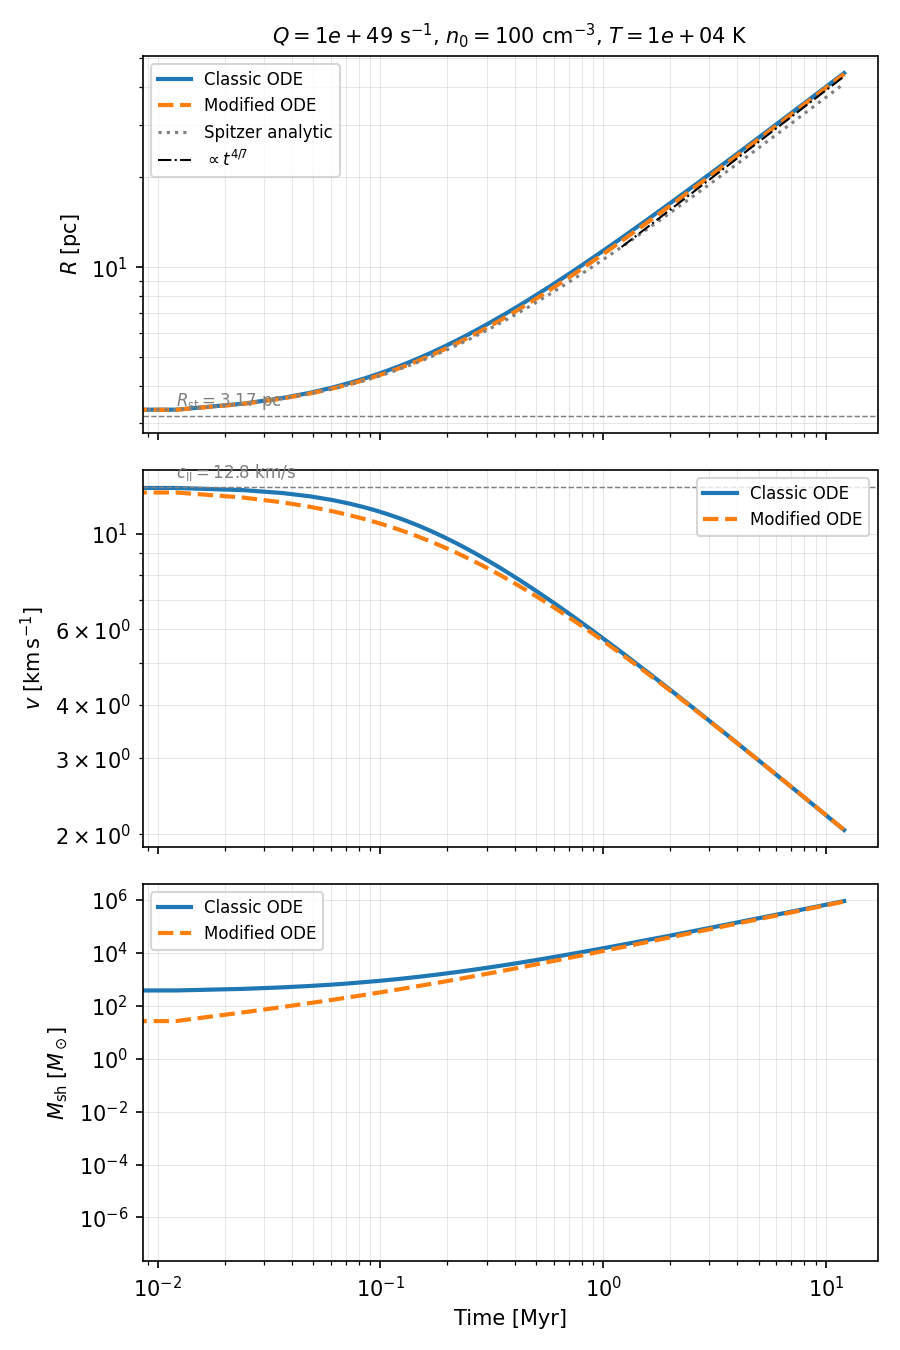
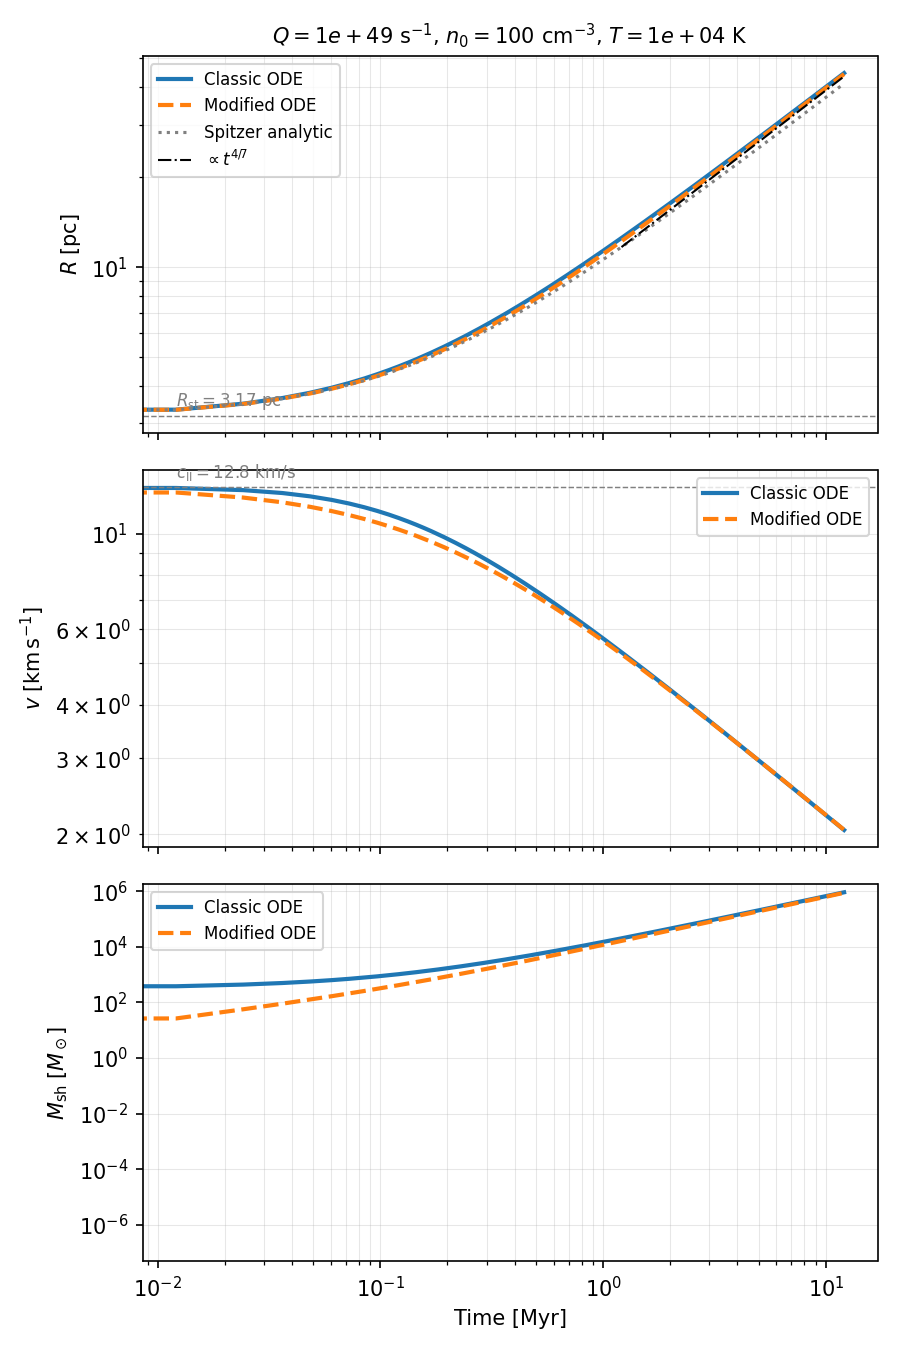
Update figures: add modified ODE curves, fix M_sh ylim, remove density-bounded text
- Figs 1–3: overlay modified Spitzer solution (dashed, same color) on all
  expansion panels; w=1.4 modified omitted (n_i > 2n at R_st makes shell
  mass ill-conditioned)
- Fig 3: remove density-bounded text annotations from expansion panels
- Fig 4: tighten M_sh y-axis limits to data range

Changed region(s): [[0.0933, 0.6533, 0.9333, 0.7778], [0.0933, 0.8089, 0.1244, 0.8711], [0.0933, 0.9022, 0.1244, 0.9333]]

diff --git a/python/plot_cored_profile.py b/python/plot_cored_profile.py
@@ -84,16 +84,16 @@ for col, r0 in enumerate(R0_VALUES):
             sol = hii.evolve((0.0, t_end), n_eval=600, rtol=1e-10, atol=0.0)
         except RuntimeError as exc:
             if "density-bounded" in str(exc):
-                ax_R.text(
-                    0.5, 0.5, rf"$w={w}$: density-bounded",
-                    transform=ax_R.transAxes, ha="center", va="center",
-                    fontsize=8, color=color,
-                )
                 continue
             raise
         t_Myr = sol.t / MYR
         R_pc = sol.y[0] / PC
         ax_R.loglog(t_Myr, R_pc, color=color, lw=2.0, label=lbl)
+        try:
+            sol_mod = hii.evolve_modified((0.0, t_end), n_eval=600, rtol=1e-8)
+            ax_R.loglog(sol_mod.t / MYR, sol_mod.y[0] / PC, color=color, lw=1.5, ls="--")
+        except RuntimeError:
+            pass
 
         solutions.append((t_Myr, R_pc, slope))
 
@@ -110,7 +110,12 @@ for col, r0 in enumerate(R0_VALUES):
     ax_n.set_title(rf"$r_0 = {r0_pc:.0f}$ pc")
     ax_n.set_xlabel(r"$r\;[\mathrm{pc}]$")
     ax_R.set_xlabel("Time [Myr]")
-    ax_n.legend(fontsize=8)
+    import matplotlib.lines as mlines
+    _solid = mlines.Line2D([], [], color="gray", lw=2.0, label="Classic ODE")
+    _dash  = mlines.Line2D([], [], color="gray", lw=1.5, ls="--", label="Modified ODE")
+    handles, labels = ax_n.get_legend_handles_labels()
+    ax_n.legend(handles + [_solid, _dash], labels + ["Classic ODE", "Modified ODE"],
+                fontsize=8)
 
 axes[0, 0].set_ylabel(r"$n\;[\mathrm{cm}^{-3}]$")
 axes[1, 0].set_ylabel(r"$R\;[\mathrm{pc}]$")
@@ -132,6 +137,6 @@ fig.suptitle(
 )
 fig.tight_layout()
 
-out = Path(__file__).parent / "cored_density.png"
+out = Path(__file__).parent.parent / "figures" / "cored_density.png"
 fig.savefig(out, dpi=150)
 print(f"Saved {out}")

diff --git a/python/plot_constant_density.py b/python/plot_constant_density.py
@@ -33,6 +33,7 @@ T_dyn = R_st / c_II          # characteristic expansion time [s]
 
 t_end = 50.0 * T_dyn
 sol = hii.evolve((0.0, t_end), n_eval=500, rtol=1e-10, atol=0.0)
+sol_mod = hii.evolve_modified((0.0, t_end), n_eval=500, rtol=1e-10, atol=0.0)
 
 t_num = sol.t
 R_num = sol.y[0]
@@ -61,9 +62,10 @@ R_ref = R_sp_pc[i_anchor] * (t_ref / t_Myr[i_anchor]) ** (4.0 / 7.0)
 # ---------------------------------------------------------------------------
 fig, ax = plt.subplots(figsize=(6, 4.5))
 
-ax.loglog(t_Myr, R_num_pc, color="C0", lw=2.0, label="Thin-shell ODE (numerical)")
-ax.loglog(t_Myr, R_sp_pc, color="C1", lw=2.0, ls="--", label="Spitzer (1978) analytic")
-ax.loglog(t_ref, R_ref, color="k", lw=1.2, ls=":", label=r"$\propto t^{4/7}$")
+ax.loglog(t_Myr, R_num_pc, color="C0", lw=2.0, label="Classic ODE")
+ax.loglog(sol_mod.t / MYR, sol_mod.y[0] / PC, color="C1", lw=2.0, ls="--", label="Modified ODE")
+ax.loglog(t_Myr, R_sp_pc, color="gray", lw=1.5, ls=":", label="Spitzer (1978) analytic")
+ax.loglog(t_ref, R_ref, color="k", lw=1.2, ls="-.", label=r"$\propto t^{4/7}$")
 
 # Mark the initial Stromgren radius
 ax.axhline(R_st_pc, color="gray", lw=0.8, ls="--")
@@ -85,6 +87,6 @@ ax.set_title(
 ax.legend(fontsize=9)
 fig.tight_layout()
 
-out = Path(__file__).parent / "constant_density.png"
+out = Path(__file__).parent.parent / "figures" / "constant_density.png"
 fig.savefig(out, dpi=150)
 print(f"Saved {out}")

diff --git a/python/plot_powerlaw.py b/python/plot_powerlaw.py
@@ -62,6 +62,11 @@ for w, color in zip(W_VALUES, colors):
 
     hii = HIIRegion(Q=Q, n=n_profile, T=T)
     sol = hii.evolve((0.0, t_end), n_eval=600, rtol=1e-10, atol=0.0)
+    try:
+        sol_mod = hii.evolve_modified((0.0, t_end), n_eval=600, rtol=1e-8)
+        ax.loglog(sol_mod.t / MYR, sol_mod.y[0] / PC, color=color, lw=1.5, ls="--")
+    except RuntimeError:
+        pass  # modified ODE ill-conditioned for steep profiles (n_i > 2n at R_st)
 
     t_Myr = sol.t / MYR
     R_pc = sol.y[0] / PC
@@ -95,7 +100,12 @@ ax.set_title(
     rf"Power-law medium $n(r) = n_0\,(r_0/r)^w$,  "
     rf"$n_0 = {n0:.0f}\ \mathrm{{cm}}^{{-3}}$,  $r_0 = 1$ pc"
 )
-ax.legend(fontsize=9, title=rf"$Q = {Q:.0e}\ \mathrm{{s}}^{{-1}}$", title_fontsize=8)
+import matplotlib.lines as mlines
+_solid = mlines.Line2D([], [], color="gray", lw=2.0, label="Classic ODE")
+_dash  = mlines.Line2D([], [], color="gray", lw=1.5, ls="--", label="Modified ODE")
+handles, labels = ax.get_legend_handles_labels()
+ax.legend(handles + [_solid, _dash], labels + ["Classic ODE", "Modified ODE"],
+          fontsize=9, title=rf"$Q = {Q:.0e}\ \mathrm{{s}}^{{-1}}$", title_fontsize=8)
 ax.text(
     0.97,
     0.03,
@@ -109,6 +119,6 @@ ax.text(
 
 fig.tight_layout()
 
-out = Path(__file__).parent / "powerlaw_density.png"
+out = Path(__file__).parent.parent / "figures" / "powerlaw_density.png"
 fig.savefig(out, dpi=150)
 print(f"Saved {out}")

diff --git a/python/plot_classic_vs_modified.py b/python/plot_classic_vs_modified.py
@@ -97,6 +97,9 @@ ax.loglog(t_m, sol_modified.y[2] / M_SUN, color="C1", lw=2.0, ls="--", label="Mo
 ax.set_ylabel(r"$M_{\rm sh}\;[M_\odot]$")
 ax.set_xlabel("Time [Myr]")
 ax.legend(fontsize=8, loc="upper left")
+# tighten y-limits to the data range (skip seed-mass transient at t=0)
+_all_msh = np.concatenate([sol_classic.y[2], sol_modified.y[2]]) / M_SUN
+ax.set_ylim(_all_msh[_all_msh > 0].min() * 0.5, _all_msh.max() * 2.0)
 
 for ax in axes:
     ax.grid(True, which="both", alpha=0.3, lw=0.5)
